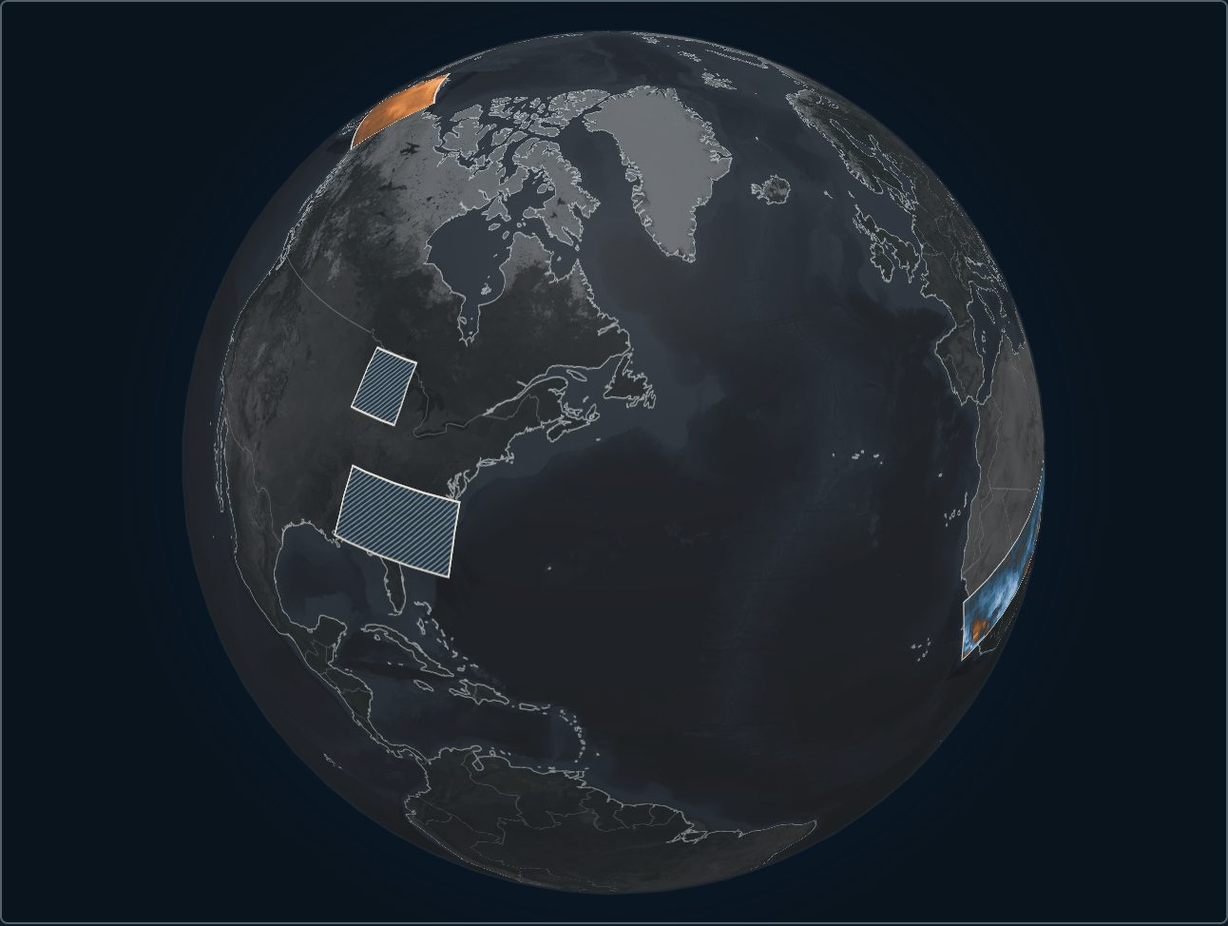
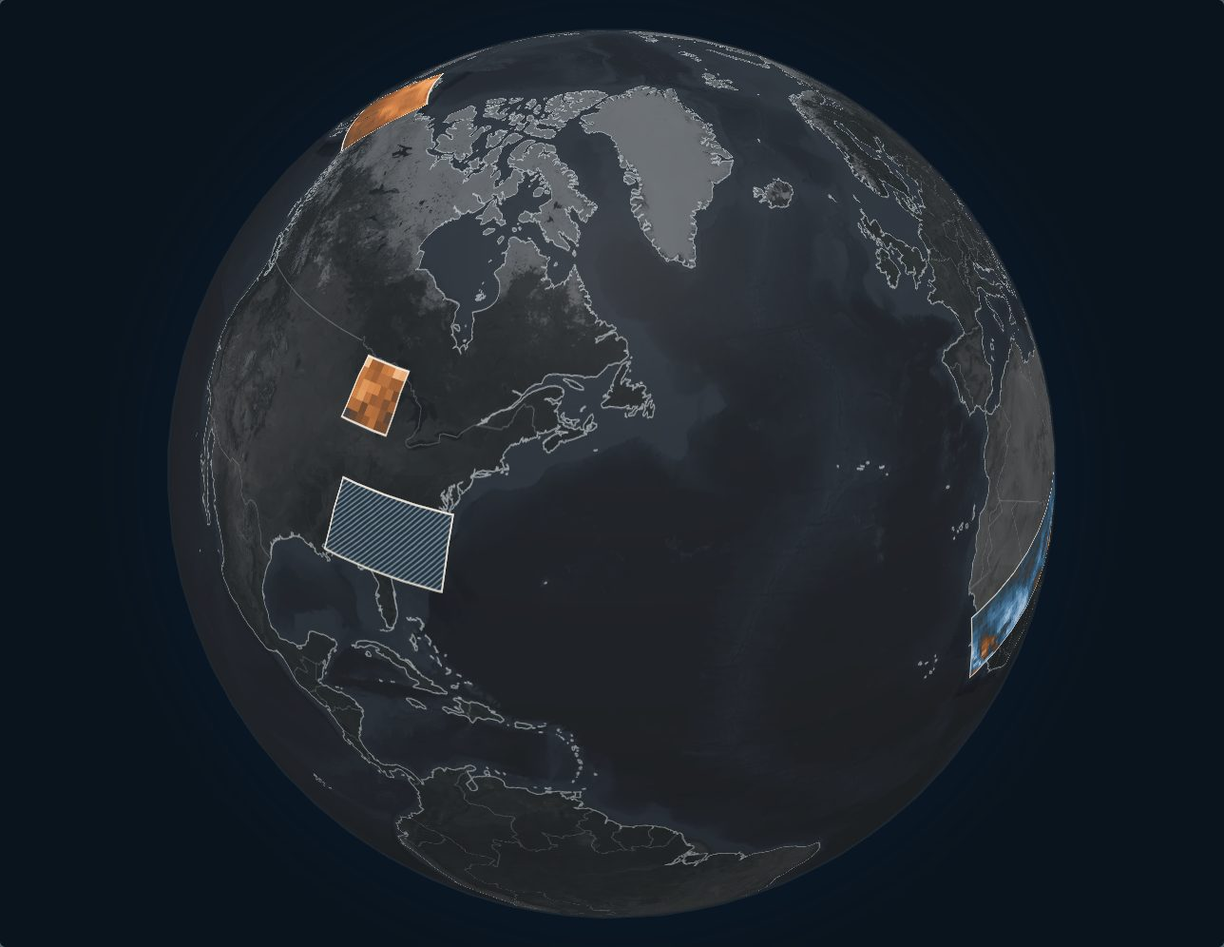
Web: sync to stats round 3 (C-D not supported, C-B stronger, Addendum 4)
- C-D Wisconsin is shown as not supported with a plain note that the test is conservative; obsolete skew-rewrite fallback removed
- Docket shows a 'rule change after the results' note with round 2 numbers (data/round2_reference.json, matched to run.supersedes) beside round 3
- Ledger lists Addendum 4; Method and Reading-a-verdict text updated for bootstrap tests, negative persistence and the five possible outcomes
- Investigate passes the requested period to the gate and lists missing years; home globe poster regenerated

diff --git a/web/js/views/pages.js b/web/js/views/pages.js
@@ -32,7 +32,7 @@ export function method(b) {
       h("p", {}, "The Mann-Kendall test asks whether later years tend to be higher or lower than earlier ones, with no straight-line assumption. The answer is a p-value. A p-value below ", String(a), " is called significant. It means a pattern this strong would be rare if there were no trend, under the test's assumptions. It is not the probability that chance produced the pattern, and a larger p-value does not prove there is no trend."),
       why("Neighbouring years often resemble each other. Ignoring that makes p-values too small and trends look more certain than they are. A correction widens the test to allow for it."),
       disc("Technical details: which correction",
-        h("p", {}, "We registered Hamed-Rao first. Before any result, a simulation on synthetic series picked the correction that kept false alarms closest to 5% for each claim. At the persistence of the Alaska series Hamed-Rao raised too many false alarms (about 7% instead of 5%), so Alaska uses Yue-Wang. For the Sahel case it is plain Mann-Kendall, because it kept false alarms nearest 5% in the simulations. Sahel's years actually alternate (a wet year tends to be followed by a drier one), and our simulations did not cover that kind of record, so this choice is not validated for it. Hamed-Rao stays on the page as context."),
+        h("p", {}, "We registered Hamed-Rao first. Before any result, a simulation on synthetic series picked the correction that kept false alarms closest to 5% for each claim. At the persistence of the Alaska series Hamed-Rao raised too many false alarms (about 7% instead of 5%), so Alaska uses Yue-Wang. For the Sahel case it is now a moving-block bootstrap Mann-Kendall. Sahel's years alternate (a wet year tends to be followed by a drier one). Our first round of checks rounded that up to no persistence at all; after an outside review we simulated negative persistence too (round 3, disclosed as Addendum 4, a change made after the results), and this test was the best-calibrated one that passed. Hamed-Rao stays on the page as context."),
         h("p", {}, "A p-value is a convention-bound summary: the 0.05 line is not a calibrated scale."))),
     stage(4, "Test every grid cell, then count",
       h("p", {}, "The map repeats the test in every grid cell. Four hearings change one thing each: (1) raw Mann-Kendall, treating every year as independent; (2) each cell compared with its own seasonal normal; (3) the memory correction chosen for the claim; (4) the Benjamini-Hochberg false-discovery step at q = ", String(q), " applied to the hearing 3 p-values."),
@@ -42,7 +42,7 @@ export function method(b) {
         h("p", {}, "The cell share counts every grid cell once. The area share weights cells by the cosine of latitude, because high-latitude cells cover less ground. Alaska, hearing 4: 750 of 861 cells (87.1%), 85.2% of the area. Both are shares of the tested map, not probabilities: neither is the chance that the claim is true."),
         h("p", {}, `We declared q = ${q} before seeing any result. Benjamini-Hochberg is guaranteed for independent or positively dependent cells. Neighbouring cells are correlated, so we checked the rate on correlated synthetic fields.`))),
     h("section", { class: "section", "aria-labelledby": "proof-h" }, h("h2", { id: "proof-h" }, "Standards of proof"),
-      h("p", {}, "Courts ask for different amounts of evidence at different moments. Our three labels borrow the idea. It is an analogy, not a legal test. Statistics never establishes that a claim is true, and none of these labels is a probability that it is."),
+      h("p", {}, "Courts ask for different amounts of evidence at different moments. The rows below borrow the idea. It is an analogy, not a legal test. Statistics never establishes that a claim is true, and none of these labels is a probability that it is."),
       h("table", { class: "analogy-table" }, h("caption", { class: "sr-only" }, "Three legal standards of proof and their rough counterparts in this project"),
         h("thead", {}, h("tr", {}, h("th", { scope: "col" }, "In a court"), h("th", { scope: "col" }, "In this project"))),
         h("tbody", {},
@@ -50,7 +50,8 @@ export function method(b) {
           h("tr", {}, h("th", { scope: "row" }, "Preponderance of the evidence"), h("td", {}, h("b", {}, "Supported by this data. "), "The tests lean one way for one dataset, one box and one period.")),
           h("tr", {}, h("th", { scope: "row" }, "The strongest label (no courtroom equivalent)"), h("td", {}, h("b", {}, "The strongest standard this tool applies: survives every correction and the map-wide check. "), "It holds after the memory correction and the false-discovery step, and across the map, not only in one regional average. It is still not proof."))))),
     h("section", { class: "section", "aria-labelledby": "verdict-h" }, h("h2", { id: "verdict-h" }, "Reading a verdict"),
-      h("ul", {}, h("li", {}, h("b", {}, "A verdict is scoped. "), "\"Supported\" is never a general statement. It always names one dataset, one box and one period, and it says the tests lean one way there, not that the claim is true."),
+      h("ul", {}, h("li", {}, h("b", {}, "Five outcomes can appear. "), "Supported; partly supported (the regional average moved but not much of the map did); not supported (the record does not show the claimed change at the registered bar); contradicted (the record moved the other way); and no verdict given, when no test passes its false-alarm check for that record. \"Not supported\" is not proof that nothing changed, and where the test is conservative, as for Wisconsin, it is not evidence that the change did not happen."),
+        h("li", {}, h("b", {}, "A verdict is scoped. "), "\"Supported\" is never a general statement. It always names one dataset, one box and one period, and it says the tests lean one way there, not that the claim is true."),
         h("li", {}, h("b", {}, "The thresholds are conventions. "), "The 25% and 5% flagged-area cut-offs between supported and partly supported were chosen before results. They are not a calibrated scale."),
         h("li", {}, h("b", {}, "The map and the series are one source. "), "They come from the same data, so they are not independent evidence."),
         h("li", {}, h("b", {}, "What we do not claim. "), "We do not say what caused a change or forecast one. A regional number is not a number for a single cell. The interval on a headline result is not adjusted for our having picked that headline. A model-based variable is model output, not a measurement."))),
@@ -160,13 +161,14 @@ export function provenance(b, pick) {
 
   const ledger = h("section", { class: "section", id: "registration", "aria-labelledby": "reg-h" },
     h("h2", { id: "reg-h" }, "Registration and amendments"),
-    h("p", {}, h("b", {}, "Registered before data download (10:29 AM ET), with two dated method amendments made on simulated data before results, and one disclosed cell-rule correction."), " All of it happened on Saturday, November 14, 2026."),
+    h("p", {}, h("b", {}, "Registered before data download (10:29 AM ET), with two dated method amendments made on simulated data before results, and one disclosed cell-rule correction, and one validation-rule change made after the results (Addendum 4)."), " All of it happened on Saturday, November 14, 2026."),
     h("ol", { class: "ledger" },
       h("li", {}, h("span", { class: "when" }, "10:29 AM ET"), h("b", {}, "Registration"), "Before any claim data were downloaded, we wrote down three claims with their regions, seasons and periods (Alaska air temperature, Sahel rainfall, southeastern US land surface temperature). We also wrote down the methods: Mann-Kendall with the Hamed-Rao correction as the one regional test, the four-hearing ladder for the map, and Benjamini-Hochberg at q = 0.10. A fourth claim, Wisconsin smoke and haze, was added at 10:35 AM ET, also before any of its data."),
       h("li", {}, h("span", { class: "when" }, "11:22 AM ET (addendum 2)"), h("b", {}, "Amendment 1: the regional test"), "Simulations on synthetic series, run before any claim result, showed Hamed-Rao raised too many false alarms (about 7% instead of 5%) at the persistence of the Alaska series. The shipped test became the candidate that passes the false-alarm check and has the most power. For Alaska that is Yue-Wang. The registered Hamed-Rao and the raw test stay on the page as context."),
       h("li", {}, h("span", { class: "when" }, "Before the other claims were run"), h("b", {}, "Amendment 2: the bias bar"), "The pass bar for bias in the Sen slope was relaxed (bias within 3 Monte Carlo standard errors, or within 0.025 standard deviations per decade), because the stricter bar would fail about two scenarios by chance alone and five failed, all negligible in size. The original bar and its failures stay published. The Alaska case is unaffected."),
-      h("li", {}, h("span", { class: "when" }, "After the first Alaska result"), h("b", {}, "One correction: the cell-test rule"), "The first run chose the cell test with the highest false-discovery power instead of following the written rule (keep the shipped test if it keeps false-discovery control). We corrected it after seeing the first Alaska result. Both runs are kept and disclosed. It changes the map (hearings 3 and 4), not the regional test.")),
-    h("p", {}, "So the question, region, season and period were registered before the data and not changed. The methods were not run once, exactly as registered: they were amended twice on simulated data before results, and one cell rule was corrected afterwards. A registered question with amended methods is not an unchanged preregistered analysis, and we do not claim it is. The full text is in event_record/WP0_CLAIM_REGISTRATION.md and event_record/STATS_LOG.md in the project repository."));
+      h("li", {}, h("span", { class: "when" }, "After the first Alaska result"), h("b", {}, "One correction: the cell-test rule"), "The first run chose the cell test with the highest false-discovery power instead of following the written rule (keep the shipped test if it keeps false-discovery control). We corrected it after seeing the first Alaska result. Both runs are kept and disclosed. It changes the map (hearings 3 and 4), not the regional test."),
+      h("li", { id: "addendum-4" }, h("span", { class: "when" }, "3:45 PM ET (addendum 4, after results)"), h("b", {}, "Post-result change: the validation gate"), "An outside review of the first full set of results found that the gate rounded negative persistence up to zero, checked skewness with one scenario that actually measured persistence, and let missing years pass. We changed the gate, not the claims, bars or candidate tests, and re-ran every case. Sahel stayed \"partly supported\" but got stronger (the shipped test changed to a bootstrap Mann-Kendall; p 0.030 to 0.004). Wisconsin changed from \"no verdict given\" to \"not supported\". Alaska and the Southeast US kept their rulings. This is a post-result change, shown beside the round 2 numbers on each affected case; the round 2 bundles and run IDs are kept and marked superseded.")),
+    h("p", {}, "So the question, region, season and period were registered before the data and not changed. The methods were not run once, exactly as registered: they were amended twice on simulated data before results, one cell rule was corrected afterwards, and the validation gate was changed after the results were seen. A registered question with amended methods is not an unchanged preregistered analysis, and we do not claim it is. The full text is in event_record/WP0_CLAIM_REGISTRATION.md and event_record/STATS_LOG.md in the project repository."));
 
   const credits = h("section", { class: "section", "aria-labelledby": "cr-h" }, h("h2", { id: "cr-h" }, "Sources, tools and credits"),
     h("p", { style: "max-width:68ch" }, "NASA Earth data products are named on each case, with product, version and DOI. Maps: coastlines and country borders from Natural Earth (public domain) via the world-atlas package 2.0.2 (ISC licence); US state outlines from the US Census Bureau cartographic boundary files via the us-atlas package 3.0.1 (ISC licence). Live data in Investigate: NASA POWER (MERRA-2 and CERES based parameters), fetched from your browser to NASA. Statistics checked against the pymannkendall package. The project is MIT licensed; the generic starter theme is disclosed as pre-existing and MIT licensed. Parts of the code and the sentence templates were produced with LLM assistance that Walter Guevara directed and checked. Not endorsed by NASA."));

diff --git a/web/js/views/cases.js b/web/js/views/cases.js
@@ -9,6 +9,7 @@ import { sigClass, sigLabel } from "../words.js";
 import { clinicStrip, whoActs } from "./clinic.js";
 import { exhibit } from "./exhibit.js";
 import { caseFrame } from "../viz/anomaly-map.js";
+import { METHOD_NAME } from "../data.js";
 
 const NA = () => h("span", { class: "muted" }, "Not in this bundle yet.");
 const NOT_SHOWN = "Not shown: failed its coverage check.";
@@ -53,7 +54,26 @@ export function caseDocket(b, c) {
 
   // ---------------------------------------------------------------- the ruling summary (final; the map selector never changes it)
   const why = withheld ? plainReason(c) : [t ? `The regional trend is ${t.p < (t.alpha || 0.05) ? "significant" : "not significant"} at ${t.alpha || 0.05} (p = ${fmtPx(t.p)}).` : "The regional test is not shown because it did not pass its calibration check.",
-    c.gate.cells ? `${pct(finalQ.flagged_fraction_claimed, 1)} of the mapped area is flagged in the claimed direction after hearing ${nL}.` : null].filter(Boolean).join(" ");
+    c.gate.cells ? `${pct(finalQ.flagged_fraction_claimed, 1)} of the mapped area is flagged in the claimed direction after hearing ${nL}.` : null,
+    v.id === "not_supported" ? "Not supported means the record does not show the claimed change at the registered bar." + (c.conservative && c.conservative.length ? " The test is conservative for this record, so this is not evidence that the change did not happen." : " It is not proof that nothing changed.") : null].filter(Boolean).join(" ");
+  // A round-3 rule change made after the results: show the round-2 numbers beside the current ones (round-2 numbers: data/round2_reference.json, matched to run.supersedes).
+  const ruleNote = h("section", { class: "callout rule-change", role: "note", hidden: true, "aria-label": "Rule change after the results" });
+  (async () => {
+    try {
+      const all = await fetch("data/round2_reference.json").then(r => (r.ok ? r.json() : null)), ref = all && all[c.id];
+      if (!ref || !(c.supersedes || []).some(x => x.run_id === ref.run_id)) return;
+      const area = f => `${(f * 100).toFixed(1)}%`;
+      const link = h("a", { href: "#/data/registration" }, "Addendum 4");
+      const lead = h("b", {}, "Rule change after the results. ");
+      if (ref.verdict_id === "withheld") {
+        ruleNote.append(lead, `Under the round 2 rules this case was withheld (run ${ref.run_id}). The round 3 rules, written after outside review and after the round 2 bundles had been seen, simulate negative persistence and match the noise shape to the record. Under them the court now gives a ruling: ${v.label.toLowerCase()}. Both runs stay on record. `, link, ".");
+      } else if (ref.p != null && t && iv) {
+        const before = ref.regional_test === "mk_independent" ? "plain Mann-Kendall, no correction" : (METHOD_NAME[ref.regional_test] || ref.regional_test);
+        ruleNote.append(lead, `Round 2 rule (${before}): p ${fmtPx(ref.p)}, interval ${signed(ref.interval[0], 2)} to ${signed(ref.interval[1], 2)} ${u} per decade, ${area(ref.area_in_direction)} of the area flagged in the claimed direction. Round 3 rule, after outside review, now simulates negative persistence (${t.title}): p ${fmtPx(t.p)}, interval ${signed(iv.lo, 2)} to ${signed(iv.hi, 2)}, ${area(finalQ.flagged_fraction_claimed)} flagged. The ruling is ${v.label.toLowerCase()} in both rounds. The result looks stronger, but only because a rule was changed after the results were seen, so read both. The round 2 numbers stay on record. `, link, ".");
+      } else return;
+      ruleNote.hidden = false;
+    } catch (e) { /* the note is an addition; the ruling stands without it */ }
+  })();
   const essential = withheld ? "The record and the map are shown below for reading. They are a description, not a basis for a verdict. The technical reasons are under Limits of this finding." :
     c.data_kind === "model_reanalysis" ? "This is model output, not a direct measurement, and a trend does not say why it changed." : (f.not_supported && f.not_supported[0]) || "A trend alone does not say why it changed or what comes next.";
   const text = () => [withheld ? "The court cannot rule on this evidence (ruling withheld). " + plainReason(c) : v.scoped, v.headline, ...v.sentences,
@@ -200,7 +220,7 @@ export function caseDocket(b, c) {
     h("div", { class: "baseline" }, h("h3", {}, "Pooled distribution by period"),
       h("p", { class: "muted small" }, "Every grid cell in every year of each period, each against its own baseline, unweighted. It describes the data; it is not a test."),
       distTable, h("p", { style: "margin:8px 0 0" }, h("button", { class: "btn-text", type: "button", onclick: () => ex.select("distribution", { scroll: true }) }, "Inspect distribution"))),
-    t ? h("p", { class: "small muted", style: "margin:12px 0 0" }, t.label + ". " + (t.method === "mk_independent" ? (c.phi_hat != null && c.phi_hat < -0.1 ? "No autocorrelation correction was chosen here. This record's years alternate (lag-1 " + (persistenceText(c) || "") + "), and our checks did not simulate negative persistence, so the choice is not validated for a record like it; treat the test as a rough guide. " : "No autocorrelation correction was chosen here: in our simulations this test kept false alarms nearest 5% for series with persistence near this one's " + (persistenceText(c) || "") + ". ") : "p-values from series whose years resemble each other tend to be too small, which is why this correction is applied. ") + "The test was chosen by simulation on synthetic series, not by looking at this result.") : null,
+    t ? h("p", { class: "small muted", style: "margin:12px 0 0" }, t.label + ". " + (t.method === "mk_independent" ? "No autocorrelation correction was chosen here: in our simulations, which include negative persistence, this test kept false alarms nearest 5% for series with persistence near this one's " + (persistenceText(c) || "") + ". " : /^boot_mk/.test(t.method) ? "The p-value comes from a moving-block bootstrap, which keeps the year-to-year memory of this record (" + (persistenceText(c) || "") + ") instead of assuming a correction. " : "p-values from series whose years resemble each other tend to be too small, which is why this correction is applied. ") + "The test was chosen by simulation on synthetic series, not by looking at this result.") : null,
     h("p", { class: "small muted" }, iv ? `${iv.label}. How often such intervals contain the true slope was measured on synthetic series; it is not a range for individual years. ${calLines(c, withheld).join(". ")}${calLines(c, withheld).length ? ". " : ""}` : `Interval: ${NOT_SHOWN} `, r.band_lo ? r.band_meaning : `Band: ${NOT_SHOWN}`),
     ctxRows.length ? h("div", { class: "baseline" }, h("h3", {}, "Context, not the ruling"), ctxRows.map(x => h("p", { class: "muted small", style: "margin:0 0 4px" }, x))) : null,
     h("div", { class: "baseline" }, h("h3", {}, "The familiar baseline: least squares and t-test"), h("p", { class: "muted small" }, "Context only. The ruling rests on the Sen slope and the regional test above."),
@@ -218,6 +238,7 @@ export function caseDocket(b, c) {
     !iv && !withheld && c.gate.reasons_interval && c.gate.reasons_interval.length ? h("p", { class: "muted small" }, h("b", {}, "Why no interval. "), c.gate.reasons_interval.join(" ")) : null,
     f.scope_text ? h("p", {}, h("b", {}, "This number is for. "), f.scope_text) : null,
     f.not_supported ? [h("p", {}, h("b", {}, "What the evidence does not support")), h("ul", {}, f.not_supported.map(x => h("li", {}, x)))] : null,
+    c.conservative && c.conservative.length ? h("p", {}, h("b", {}, "The test is conservative here. "), c.conservative.join(" ")) : null,
     withheld ? null : h("p", {}, h("b", {}, "How to read the ruling. "), `The map and the regional series come from the same data, so they are not independent evidence. The ${pct(th.breadth, 0)} and ${pct(th.local, 0)} area thresholds that separate "supported" from "partly supported" are conventions we chose before seeing results, not a calibrated scale. Flagged-area percentages are shares of the tested area, not the chance that the claim is true. "Partly supported" can mean that the regional average changed significantly while few cells did: it combines two questions, whether the average moved and how widespread the change is across the map.`),
     h("p", {}, h("b", {}, "The views of the map and the distribution. "), "Values over time: each square is one grid cell against its own baseline, with no smoothing in space; colours blend between years only while playing. Distribution: pools every cell in every year of a 10-year period (the last period can be shorter), unweighted, so its mean differs from the area-weighted regional record; neighbouring cells and years are correlated, so these curves describe the data and are not independent observations, and a small share of extreme values can fall outside the drawn range (the figure says how many). None of these views is a test, and none changes the ruling."),
     c.id === "C-A" ? h("p", {}, h("b", {}, "The satellite's overpass time drifted. "), "Terra's daytime overpass has been getting earlier since NASA stopped adjusting its orbit in 2020 (", h("a", { href: "https://science.nasa.gov/science-research/earth-science/terra-the-end-of-an-era/", target: "_blank", rel: "noopener" }, "NASA Science, 2025"), "), so its readings now come from earlier in the morning. The Witness check finds that the satellite's daytime readings track overpass time closely (the correlation is given there), which is consistent with an earlier pass reading cooler. It does not prove that the drift is the cause, and it is an exploratory check, not the registered test.") : null,
@@ -242,7 +263,7 @@ export function caseDocket(b, c) {
     h("header", { class: "case-head" },
       h("p", { class: "eyebrow brass" }, "Case " + caseNo(c.id) + " · the registered claim"), h("h1", { id: "page-title", tabindex: "-1" }, "“" + c.claim_text + "”"),
       h("p", { class: "definition" }, h("b", {}, c.variable.name + ": "), c.variable.plain)),
-    (() => { const slot = clinicSlot(c.id), strip = clinicStrip(c); if (strip) slot.append(strip); return slot; })(), ruling,
+    (() => { const slot = clinicSlot(c.id), strip = clinicStrip(c); if (strip) slot.append(strip); return slot; })(), ruling, ruleNote,
     ex.node, h("div", { class: "docket-more" }, statistics, limits, provenance)),
     afterMount: () => ex.start(), dispose: () => ex.dispose() };
 }

diff --git a/web/js/data.js b/web/js/data.js
@@ -47,7 +47,7 @@ function seasonName(m) {
 const BRANCH = { supported: ["Supported", "ok"], partly_supported: ["Partly supported", "warn"], not_supported: ["Not supported", "neutral"], contradicted: ["Contradicted", "bad"], withheld: ["No verdict given", "warn"] };
 // Short names for the regional and cell tests the validation gate can choose (stats/SCHEMA.md, addendum 2).
 export const METHOD_NAME = { mk_independent: "Mann-Kendall, years treated as independent", hr_registered: "Hamed-Rao (as registered)", hr_all_lags: "Hamed-Rao, all lags", yue_wang: "Yue-Wang", tfpw: "TFPW (trend-free pre-whitening)", boot_mk_L3: "block-bootstrap Mann-Kendall (3-year blocks)", boot_mk_L5: "block-bootstrap Mann-Kendall (5-year blocks)" };
-const testTitle = m => m === "mk_independent" ? "Mann-Kendall (years treated as independent)" : `Mann-Kendall with ${METHOD_NAME[m] || m} correction`;
+const testTitle = m => m === "mk_independent" ? "Mann-Kendall (years treated as independent)" : /^boot_mk/.test(m) ? `Mann-Kendall with a moving-block bootstrap p-value (${(METHOD_NAME[m] || "").replace(/^.*\(|\)$/g, "") || "blocks"})` : `Mann-Kendall with ${METHOD_NAME[m] || m} correction`;
 const COV_NOTE = "; passed a 90% coverage check in simulations";
 const INTERVAL_WORD = { analytic_hr: "Sen slope, analytic", bootstrap: "Sen slope, moving-block bootstrap" };
 export const BAND_MEANING = "The shaded band is the Sen line tilted between the lower and upper ends of the 95% slope interval, pivoting at the middle year. It shows how steep the trend could plausibly be. It does not show uncertainty about the level, and it is not a range for individual years.";
@@ -76,12 +76,6 @@ function pickRegional(reg, T, gate, val) {
   return { test, interval, band, ctx };
 }
 
-
-// A bundle may still say that skewness alone explains a failed calibration. The validation only shows that one joint scenario
-// (skewed noise with year-to-year persistence) failed, so the page words it that way whatever the bundle text says.
-const SKEW_ALONE = /this series is strongly lopsided \(skewness above ([\d.]+)\), where every test was too liberal in simulation\.?/;
-const softReason = x => String(x).replace(SKEW_ALONE, "in the simulated scenario closest to this series (skewed noise with year-to-year persistence, skewness above $1), every test was too liberal. The simulations cannot say whether skewness or persistence caused that, so we do not claim a cause.");
-const softReasons = a => (a || []).map(softReason);
 
 // Calibration lines shown next to the interval and next to a released verdict. The stats worker ships them as validation.display
 // (interval_text, false_positive_text); when absent they are built from validation.adaptive, and hidden when neither exists.
@@ -154,9 +148,9 @@ function fromReal(r) {
       sen: { slope_per_decade: T.sen.slope_per_decade, intercept: T.sen.intercept },
       ols: { slope_per_decade: T.ols.slope_per_decade, ci_lo: T.ols.ci_per_decade[0], ci_hi: T.ols.ci_per_decade[1], p: T.ols.p, t: T.ols.t },
     },
-    display: displayTexts(val, iv),
-    gate: { regional: !!gate.regional_verdict_enabled, interval: !!gate.interval_enabled && !!iv, cells: !!gate.cells_enabled, reasons: softReasons(gate.reasons_blocking_verdict || gate.reasons), reasons_interval: softReasons(gate.reasons_interval), adaptive_notes: gate.adaptive_notes || [] },
-    verdict: { id: v.id || v.branch, branch: v.branch, label: lbl, scoped, tone, headline: sentences[0], sentences: sentences.slice(1), checklist, withheld_reasons: softReasons(v.withheld_reasons) },
+    display: displayTexts(val, iv), conservative: gate.conservative_flags || [], supersedes: (r.run && r.run.supersedes) || [],
+    gate: { regional: !!gate.regional_verdict_enabled, interval: !!gate.interval_enabled && !!iv, cells: !!gate.cells_enabled, reasons: gate.reasons_blocking_verdict || gate.reasons || [], reasons_interval: gate.reasons_interval || [], adaptive_notes: gate.adaptive_notes || [] },
+    verdict: { id: v.id || v.branch, branch: v.branch, label: lbl, scoped, tone, headline: sentences[0], sentences: sentences.slice(1), checklist, withheld_reasons: v.withheld_reasons || [] },
     finding, method_notes: r.method_notes, sensitivity: r.sensitivity, coverage: r.coverage,
   };
 }

diff --git a/web/js/views/detective.js b/web/js/views/detective.js
@@ -292,15 +292,16 @@ export function detective(cat, bundle, query = "") {
   function analyze(R) {
     const W = analyzeRows(R.rows, { months: R.season.months, y0: R.y0, y1: R.y1, units: R.v.units });
     if (W.tooShort) return { W, R };
-    // Missing years must reach the calibration check: give it the series WITH its holes (null), never the compressed one.
-    const t0 = W.years[0], span = W.years[W.years.length - 1] - t0 + 1, full = new Array(span).fill(null);
-    W.years.forEach((yr, i) => { full[yr - t0] = W.anomaly[i]; });
-    try { W.gate = exploratoryGate(Array.from({ length: span }, (_, i) => t0 + i), full); } catch (e) { /* keep the module's own gate */ }
+    // Missing years must reach the calibration check: give it the whole requested period WITH its holes (null), never the compressed series.
+    const axis = []; for (let yr = R.y0; yr <= R.y1; yr++) axis.push(yr);
+    const have = new Map(W.years.map((yr, i) => [yr, W.anomaly[i]])), full = axis.map(yr => (have.has(yr) ? have.get(yr) : null));
+    const missList = axis.filter((yr, i) => full[i] === null);
+    try { W.gate = exploratoryGate(axis, full, { period: [R.y0, R.y1] }); } catch (e) { /* keep the module's own gate */ }
     // Notes that make a run uncalibrated: years missing from the series, and months a product flags as unreliable.
-    const g0 = W.gate, miss = g0 && Array.isArray(g0.missingYears) ? g0.missingYears : [], notes = [];
-    if (miss.length) notes.push(`${miss.length} year${miss.length === 1 ? "" : "s"} missing: ${miss.join(", ")}. A gap changes the spacing of the series, so the calibration check cannot vouch for it.`);
+    const g0 = W.gate, nMiss = g0 && Number.isFinite(g0.missingYears) ? g0.missingYears : missList.length, notes = [];
+    if (nMiss > 0 || missList.length) notes.push(`${nMiss || missList.length} year${(nMiss || missList.length) === 1 ? "" : "s"} missing${missList.length ? ": " + missList.join(", ") : ""}. The calibration check does not vouch for a series with gaps.`);
     if (R.flagged) notes.push(`This window includes months after ${R.v.qualityEndText} (${R.v.qualityLabel}). ${R.v.qualityReason}`);
-    if (notes.length) W.gate = { ...(g0 || {}), calibrated: false, caveat: notes.join(" ") + (g0 && g0.caveat && !miss.length ? " " + g0.caveat : ""), missingYears: miss };
+    if (notes.length) W.gate = { ...(g0 || {}), calibrated: false, caveat: notes.join(" ") + (g0 && g0.caveat && !nMiss && !missList.length ? " " + g0.caveat : ""), missingYears: nMiss, missList };
     const corr = stepInfo("autocorr", W.A_an.mk), corrBase = stepInfo("autocorr");
     const rungs = [
       { n: 1, ...stepInfo("raw"), p: W.A_raw.mkIndependent.p, slope: W.A_raw.sen.slopePerDecade },

diff --git a/web/js/views/landing.js b/web/js/views/landing.js
@@ -7,13 +7,13 @@ import { windowsChart } from "../chart.js";
 // Home hero, right half: "where the trials are held". One Earth with all registered case regions, each drawn by its per-cell trend per decade;
 // withheld cases are hatched. It starts paused and never turns by itself. Phones and browsers without WebGL get a labelled static poster
 // (web/img/globe-trials-light.jpg and -dark.jpg, a screenshot of this same globe) with the same case list under it.
-const POSTER_ALT = "Earth seen from above North America, with four outlined case regions. Interior and western Alaska and the central Sahel are coloured by each cell's trend per decade; the Southeastern United States and Wisconsin are hatched because their rulings are withheld.";
+const POSTER_ALT = "Earth seen from above North America, with four outlined case regions. Interior and western Alaska and the central Sahel are coloured by each cell's trend per decade; the Southeastern United States is hatched because its ruling is withheld, and Wisconsin is shown with its trend colours and a not-supported ruling.";
 const hasWebGL = () => { try { const c = document.createElement("canvas"); return !!(c.getContext("webgl2") || c.getContext("webgl")); } catch (e) { return false; } };
 function heroGlobe(claims) {
   const host = h("div", { class: "hero-globe-host" });
   const cap = h("figcaption", { class: "hero-cap" }, h("b", {}, "Where the trials are held."), " Four registered regions, each drawn by its per-cell trend per decade. Click a region or a case below to open it. Imagery: NASA Blue Marble, muted.");
   const poster = () => h("a", { href: "#/cases", class: "poster-link", "aria-label": "Open the case files" },
-    h("img", { class: "poster poster-light", src: "img/globe-trials-light.jpg", width: 1292, height: 973, alt: POSTER_ALT, loading: "lazy" }), h("img", { class: "poster poster-dark", src: "img/globe-trials-dark.jpg", width: 1292, height: 973, alt: POSTER_ALT, loading: "lazy" }));
+    h("img", { class: "poster poster-light", src: "img/globe-trials-light.jpg", width: 1288, height: 996, alt: POSTER_ALT, loading: "lazy" }), h("img", { class: "poster poster-dark", src: "img/globe-trials-dark.jpg", width: 1288, height: 996, alt: POSTER_ALT, loading: "lazy" }));
   const fig = h("figure", { class: "hero-globe" }, host);
   let handle = null, dead = false;
   async function start() {

diff --git a/web/js/views/clinic.js b/web/js/views/clinic.js
@@ -41,7 +41,7 @@ export function supports(c, info) {
   if (v.id === "supported") return lead(`${S} changed by ${slope}, ${per}${interval}, and ${share || "the regional test is significant"}. This is a ${c.period.n}-year trend in one dataset. It does not explain any single year or event, or why it changed.`);
   if (v.id === "partly_supported") return lead(`${S} changed by ${slope}, ${per}${interval}, but ${share ? "only " + share : "the map does not clearly agree"}. A regional average moved; the rest of the map did not clearly show it. It does not describe any single event.`);
   if (v.id === "contradicted") return lead(`${S} moved the other way: ${slope}, ${per}${interval}. This is what ${dataset} shows for this box and period.`);
-  return lead(`${S} shows no significant change in the claimed direction, ${per} (${slope}). That is not proof of no change.`);
+  return lead(`${S} shows no significant change in the claimed direction, ${per} (${slope}). That means the record does not show the claimed change at the registered bar. ${c.conservative && c.conservative.length ? "The test is conservative for this record, so it is not evidence that the change did not happen." : "It is not proof of no change."}`);
 }
 
 export function clinicStrip(c) {
